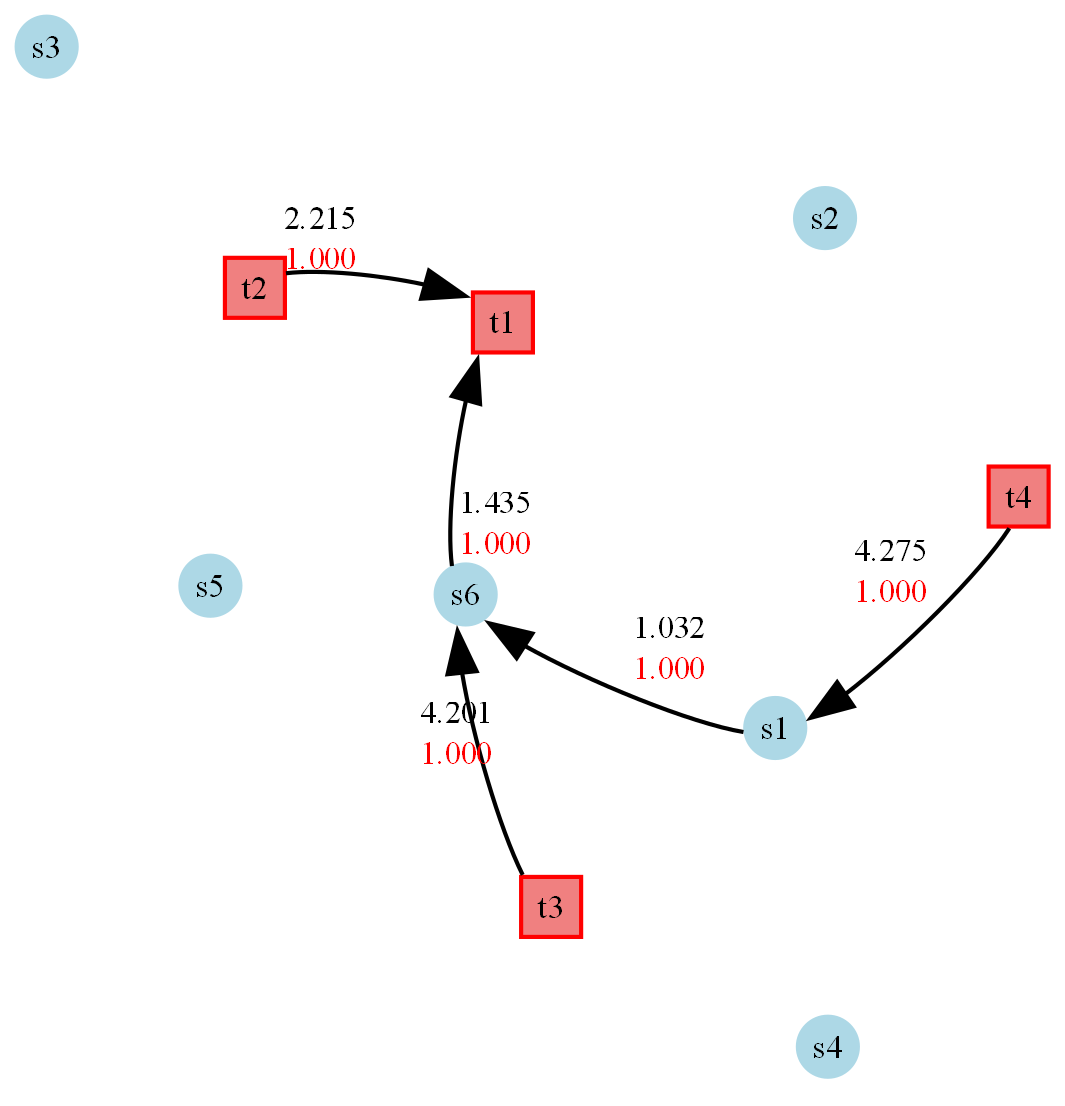
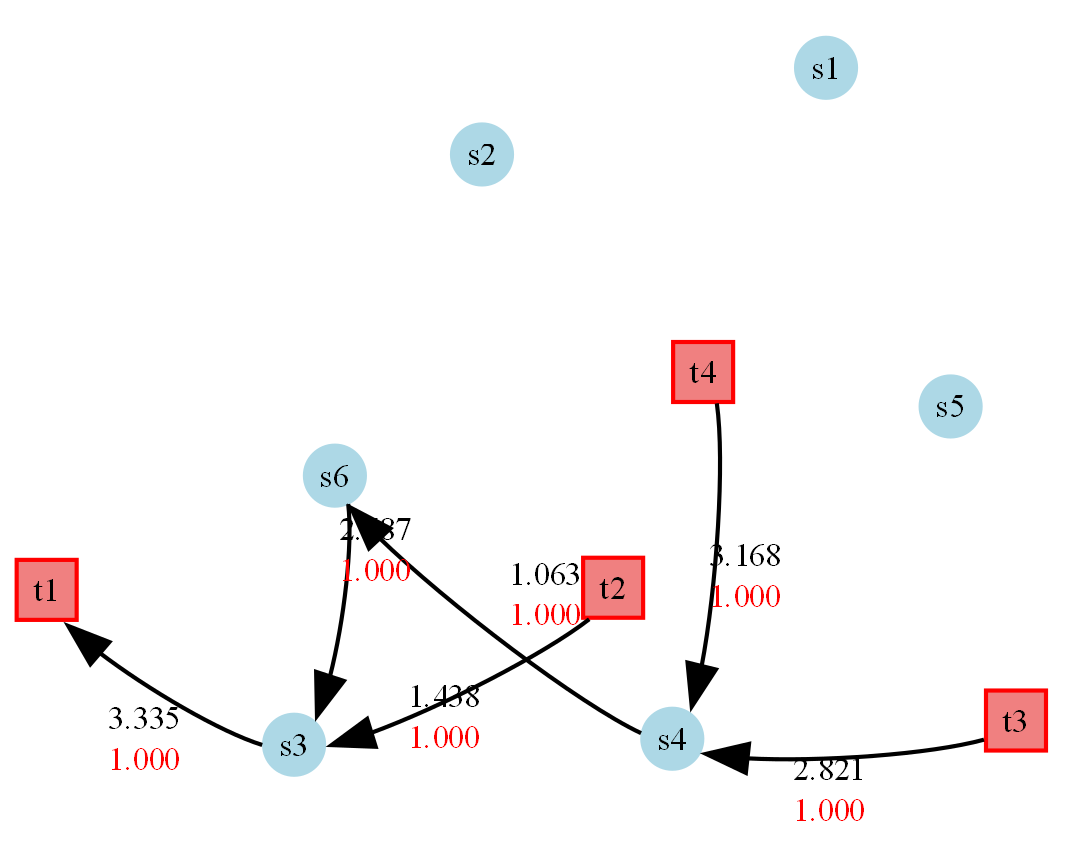
HYP_solverが完成

diff --git a/HYP_solver.py b/HYP_solver.py
@@ -1,0 +1,65 @@
+from steiner_graph import steiner_graph as sg
+from scipy.optimize import linprog
+import itertools as itt
+
+def HYP_solver(graph: sg):
+    components = {}
+    for i in range(2, len(graph.terminals) + 1):
+        for C in itt.combinations(graph.terminals, i):
+            component = graph.Dreyfus_Wagner(C)
+            if component is not None:
+                components[C] = component
+
+    num_components = len(components)
+    c_obj = [component["cost"] for component in components.values()]
+
+    A_ub = []
+    b_ub = []
+    for i in range(1, len(graph.terminals)):
+        for S in itt.combinations(graph.terminals, i):
+            constraint = []
+            for C in components.keys():
+                constraint.append(max(len([v for v in C if v in S]) - 1, 0))
+            A_ub.append(constraint)
+            b_ub.append(i - 1)
+
+    constraint = []
+    for C in components.keys():
+        constraint.append(max(len(C) - 1, 0))
+    A_eq = [constraint]
+    b_eq = [len(graph.terminals) - 1]
+
+    bounds = [(0, None)] * num_components
+    res = linprog(c_obj, A_ub=A_ub, b_ub=b_ub, A_eq=A_eq, b_eq=b_eq, bounds=bounds, method='highs')
+
+    if not res.success:
+        raise RuntimeError("HYPの求解に失敗しました")
+
+    solution = res.x
+    num_frac = 0
+    for i in solution:
+        if 1e-6 < i and i < 1-1e-6:
+            num_frac += 1
+    if num_frac == 0:
+        print("解は整数値です")
+    else:
+        print("分数解が存在します")
+
+    return {
+        "optimal_value": res.fun, 
+        "components": components,
+        "x": solution
+    }
+
+if __name__ == "__main__":
+    graph = sg()
+    graph.graph_random(4, 6, 1, 5, 0.2)
+    graph.validate()
+    graph.graph_plot()
+    result = HYP_solver(graph)
+    print(f"最適値: {result['optimal_value']}")
+    terminal_subsets = list(result["components"])
+    for i in range(len(terminal_subsets)):
+        if result["x"][i] > 1e-6:
+            component = result["components"][terminal_subsets[i]]
+            print(f"x: {result['x'][i]}, cost: {component['cost']}, component: {[(graph.edges[idx]['u'], graph.edges[idx]['v']) for idx in component['component']]}")

diff --git a/steiner_graph.py b/steiner_graph.py
@@ -107,8 +107,8 @@ class steiner_graph:    # ターミナル付きグラフ
             if not (self.edges[i] is None):
                 self.adj[self.edges[i]["u"]].append(i)
                 self.adj[self.edges[i]["v"]].append(i)
-        self.arcs_in = {v: [] for v in graph.vertices}
-        self.arcs_out = {v: [] for v in graph.vertices}
+        self.arcs_in = {v: [] for v in self.vertices}
+        self.arcs_out = {v: [] for v in self.vertices}
         for i in range(len(self.arcs)):
             if not (self.arcs[i] is None):
                 self.arcs_in[self.arcs[i]["v"]].append(i)

diff --git a/BCR_solver.py b/BCR_solver.py
@@ -64,8 +64,8 @@ def BCR_solver(graph: sg, root = None):    # steiner_graphとオプションでr
         print("分数解が存在します")
 
     return {
-        "arcs": graph.arcs,
         "optimal_value": res.fun,
+        "arcs": graph.arcs,
         "z": solution
         }
 

diff --git a/myAlgorithm1.py b/myAlgorithm1.py
@@ -1,5 +1,7 @@
 import sys
 from steiner_graph import steiner_graph as sg
+import BCR_solver
+import HYP_solver
 
 if __name__ == "__main__":
     if len(sys.argv) < 2:
